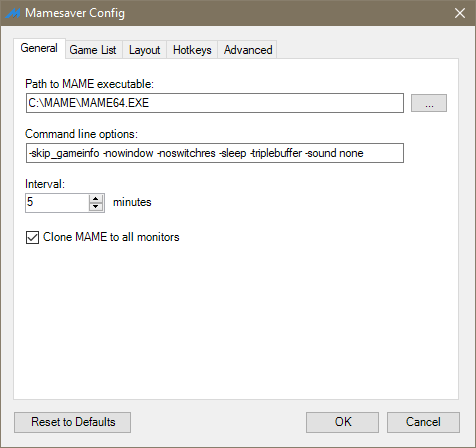
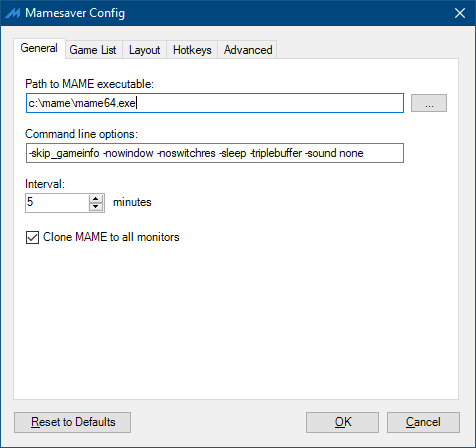
Updated screenshots with standard Windows theme

diff --git a/README.md b/README.md
@@ -24,7 +24,7 @@ Mamesaver is a Windows screen saver that runs MAME with a random game for specif
 <img src="Resources/SettingsPanel1.png" width="250" title="General Setting"> <img src="Resources/SettingsPanel2.png" width="250" title="Game List"> <img src="Resources/SettingsPanel3.png" width="250" title="Layout Settings">
 <img src="Resources/SettingsPanel4.png" width="250" title="Hotkey Settings"> <img src="Resources/SettingsPanel5.png" width="250" title="Advanced Settings">
 
-<img src="Resources/Splash.jpg" width="250" title="Splash Screen with caption"> <img src="Resources/Game.jpg" width="250" title="Game Playing with caption">
+<img src="Resources/Splash.png" width="250" title="Splash Screen with caption"> <img src="Resources/Game.jpg" width="250" title="Game Playing with caption">
 
 ### REQUIREMENTS
 * Microsoft .NET 4.6
